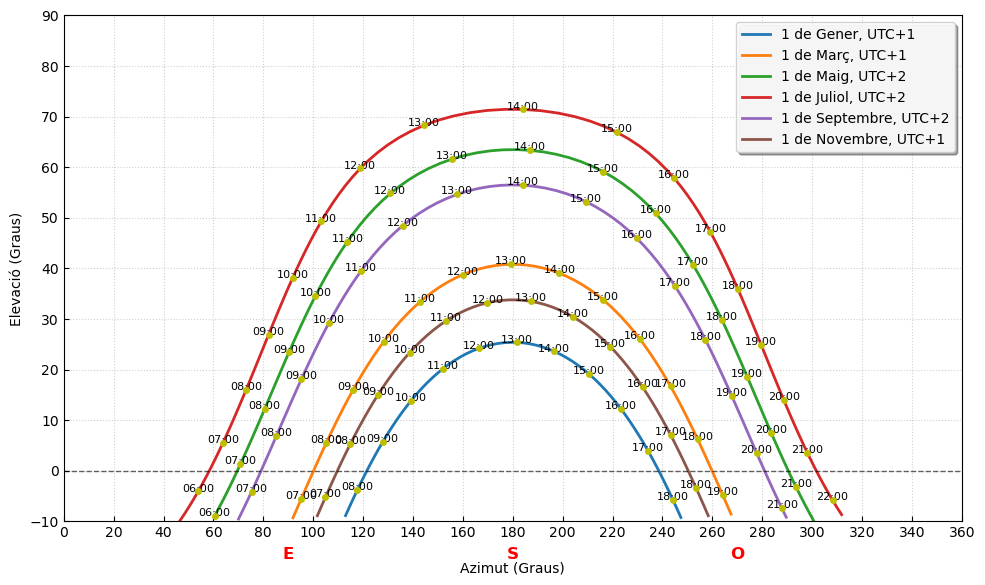
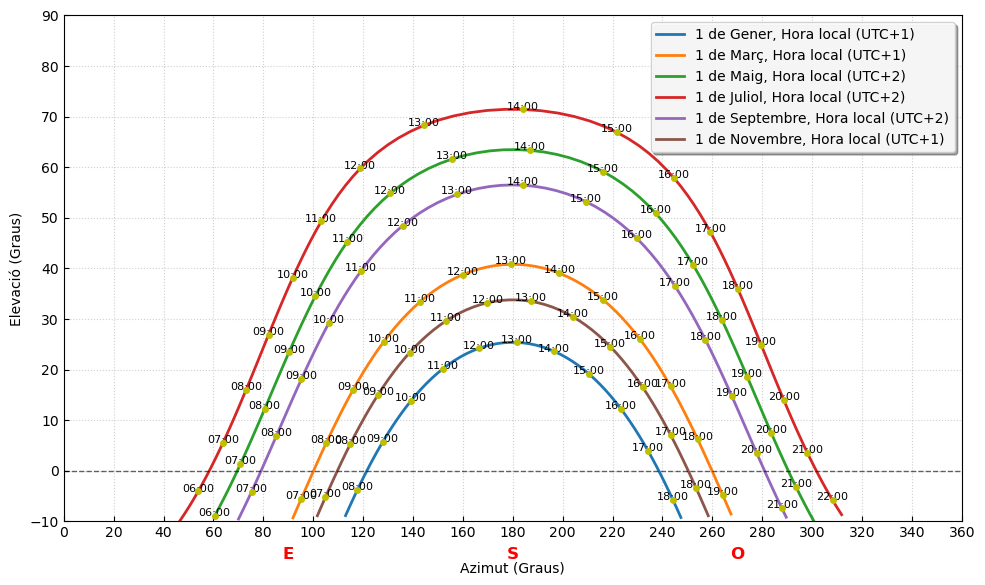
colores

Changed region(s): [[0.6701, 0.0308, 0.9746, 0.2769]]

diff --git a/codi/posiciosolcardedeu.py b/codi/posiciosolcardedeu.py
@@ -86,7 +86,7 @@ def corba_posicio(mes, dia):
             ) + datetime.timedelta(minutes=minut)
 
         # 2. Convertir a UTC
-        if data_plot > datetime.date(2026, 3, 29) and data_plot < datetime.date(2026, 10, 26):
+        if data_plot >= datetime.date(2026, 3, 29) and data_plot < datetime.date(2026, 10, 26):
             offset_horari_plot = 2
         else: 
             offset_horari_plot = 1
@@ -124,7 +124,7 @@ for key, val in mesos.items():
                 f"{hora.strftime('%H:%M')}", 
                 fontsize=8, 
                 ha='center')    
-        plt.plot(corba[0], corba[1], label=f'1 de {key}, UTC+{hores[2]}', linewidth=2)
+        plt.plot(corba[0], corba[1], label=f'1 de {key}, Hora local (UTC+{hores[2]})', linewidth=2)
 
 plt.axhline(0, color='black', linewidth=1, linestyle='--', alpha=0.6)
 
